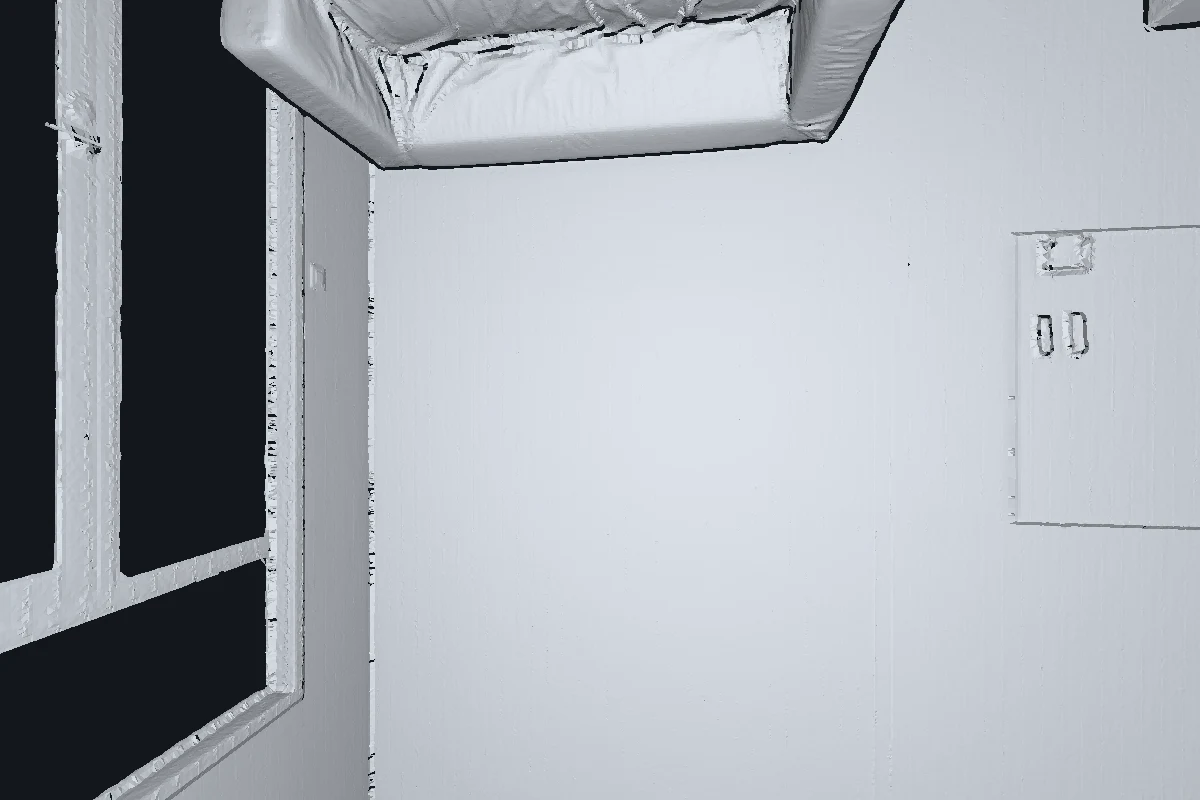
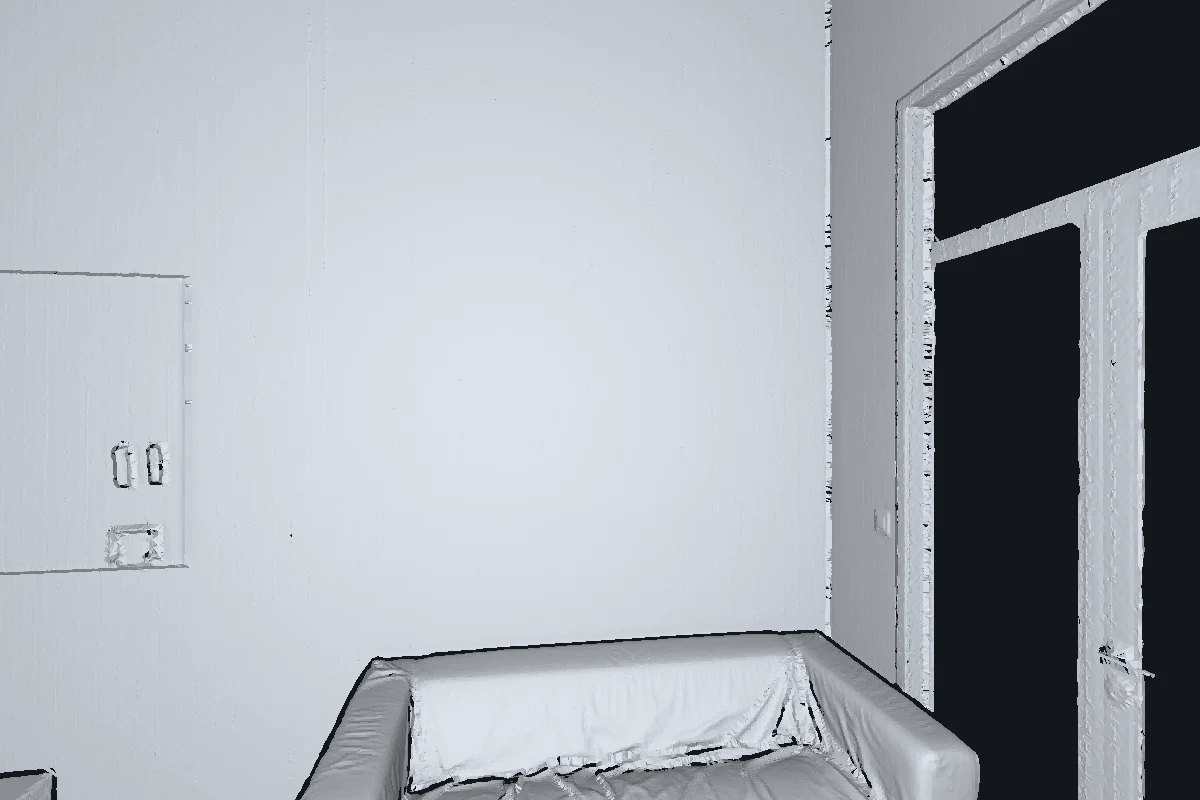
fix(examples): keep the ETH3D preview upright

diff --git a/examples/eth3d/run.py b/examples/eth3d/run.py
@@ -238,6 +238,19 @@ def native_scan(mesh, transforms, tests, output):
     )
 
 
+def preview_rays(origin, width=1200, height=800):
+    """Render toward -X with world +Z at the top of the image."""
+    # Open3D 0.19's helper uses the image-down axis for this argument.
+    return o3d.t.geometry.RaycastingScene.create_rays_pinhole(
+        fov_deg=90,
+        center=origin + [-1.0, 0, 0],
+        eye=origin,
+        up=[0, 0, -1],
+        width_px=width,
+        height_px=height,
+    )
+
+
 def figures(scene, mesh, tests, output):
     """Write attributed geometry and miss-aware CDF figures, without source RGB."""
     import matplotlib
@@ -274,14 +287,7 @@ def figures(scene, mesh, tests, output):
     )
     plt.close(fig)
     origin = tests[0][2]
-    image = o3d.t.geometry.RaycastingScene.create_rays_pinhole(
-        fov_deg=90,
-        center=origin + [-1.0, 0, 0],
-        eye=origin,
-        up=[0, 0, 1],
-        width_px=1200,
-        height_px=800,
-    )
+    image = preview_rays(origin)
     hit = scene.cast_rays(image)
     depth = hit["t_hit"].numpy()
     normal = hit["primitive_normals"].numpy()

diff --git a/examples/eth3d/test_example.py b/examples/eth3d/test_example.py
@@ -18,6 +18,12 @@ spec.loader.exec_module(example)
 
 
 class ExampleTests(unittest.TestCase):
+    def test_preview_keeps_world_up_at_image_top(self):
+        rays = example.preview_rays(np.zeros(3), width=4, height=4).numpy()
+        self.assertGreater(rays[0, 2, 5], 0)
+        self.assertLess(rays[-1, 2, 5], 0)
+        self.assertGreater(rays[2, -1, 4], 0)
+
     def test_misses_are_penalized_in_agreement_not_conditional_errors(self):
         result = example.score(np.array([np.inf, -1, 2.01, 1.0]), np.full(4, 2.0))
         self.assertEqual(result["hit_fraction"], 0.5)
